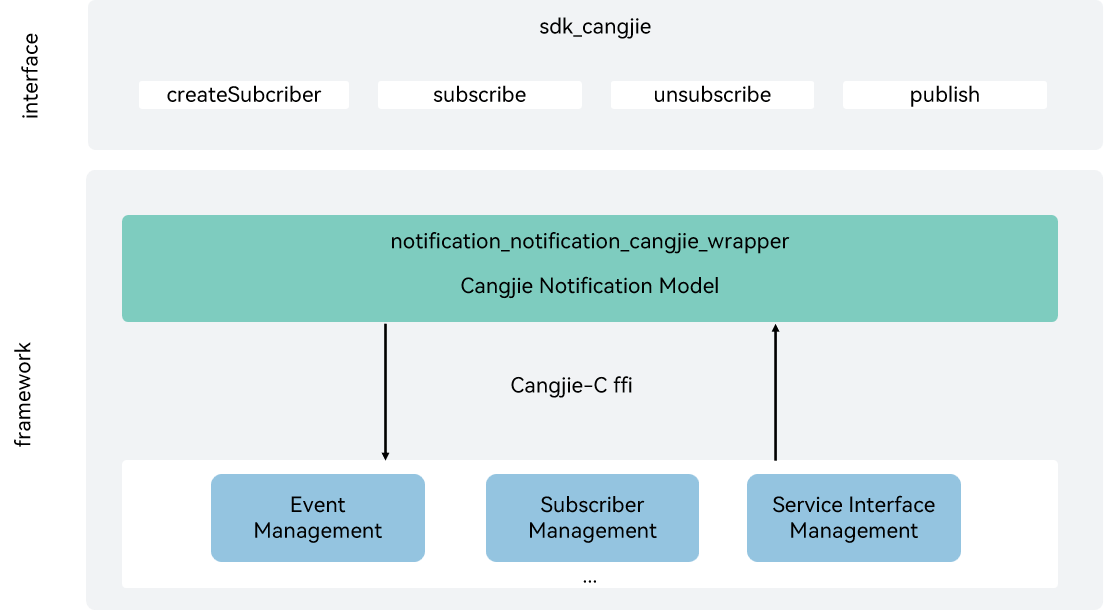
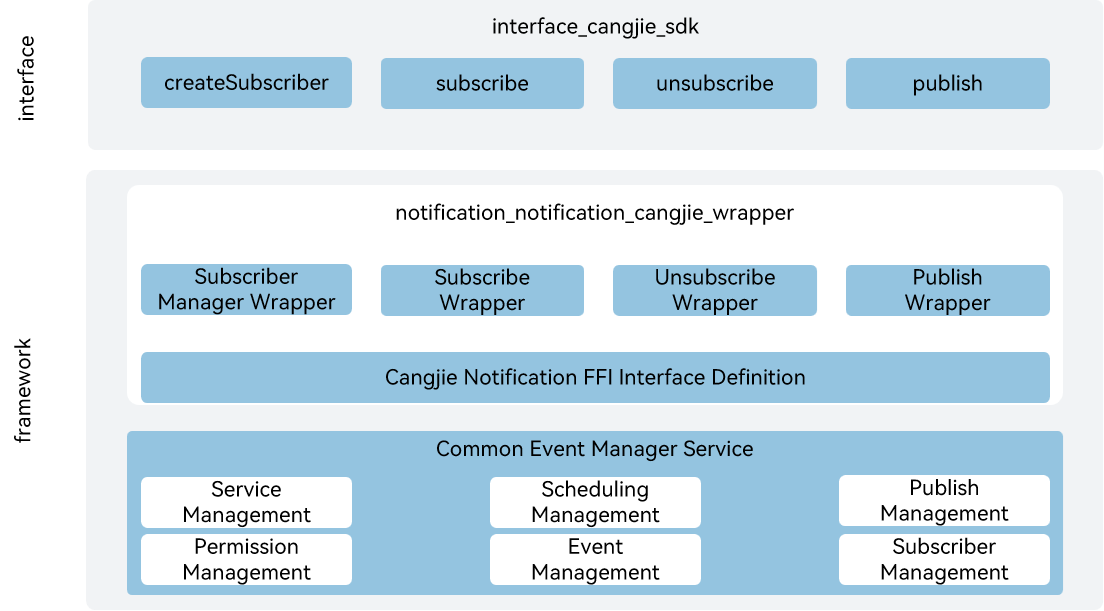
fix readme

diff --git a/README.md b/README.md
@@ -2,7 +2,7 @@
 
 ## Introduction
 
-The notification_notification_cangjie_wrapper is a Cangjie API encapsulated on OpenHarmony based on the capabilities of the Common Event Service (CES) Subsystem. OpenHarmony provides a CES for applications to subscribe to, publish, and unsubscribe from common events.
+The notification_notification_cangjie_wrapper is a Cangjie API encapsulated on OpenHarmony based on the capabilities of the Common Event Service (CES) Subsystem. OpenHarmony provides a CES for applications to subscribe to, publish, and unsubscribe from common events. The currently open CommonEvent apis only support standard devices.
 
 Common events in OpenHarmony are classified into system common events and custom common events.
 
@@ -12,31 +12,53 @@ Common events in OpenHarmony are classified into system common events and custom
 
 Each application can subscribe to common events as required. After your application subscribes to a common event, the system sends it to your application every time the event is published. Such an event may be published by the system, other applications, or your own application.
 
+## System Architecture
+
 **Figure 1** notification_cangjie_wrapper architecture
 
-![notification_cangjie_wrapper Architecture](figures/notification_cangjie_wrapper_architecture_en.png "notification_cangjie_wrapper Architecture")
+![notification_cangjie_wrapper Architecture](figures/notification_cangjie_wrapper_architecture_en.png)
+
+As shown in the architecture pictures, the notification_notification_cangjie_wrapper provides interfaces for publishing public events, creating subscribers, subscribing, unsubscribing, etc.
+
+- createSubscriber: use subscription information to create a public event subscriber, which can specify the public events the subscriber wants to subscribe to, the permissions required from the publisher, the subscriber's priority, etc.
+
+- subscribe: complete the subscription for the specified subscriber.
+
+- unsubscribe: cancel the subscription for the specified subscriber.
+
+- publish: publish a common event with the specified name and attributes.
+
+- Cangjie Notification FFI Interface Definition: Responsible for defining the C-interoperable Cangjie interface, which is used to realize Cangjie's notification capabilities.
+
+- Common Event Manager Service: Responsible for providing the basic common event fuctions, and encapsulating the C interface for interoperation with Cangjie.
 
 ## Directory Structure
 
-```cangjie
-base/notification/notification_cangjie_wrapper
-├── figures          # architecture pictures
-└── ohos             # Cangjie Common Event Manager code
 ```
-
-## Constraints
-
-The currently open CommonEvent apis only support standard devices.
+base/notification/notification_cangjie_wrapper
+├── figures         # architecture pictures
+└── ohos            # Cangjie CommonEvent code
+    ├── common_event_data
+    ├── common_event_manager
+    ├── common_event_publish_data
+    ├── common_event_subscribe_info
+    ├── common_event_subscriber
+    └── value_type
+```
 
 ## Usage
 
-The notification_notification_cangjie_wrapper provides interfaces for publishing public events, creating subscribers, subscribing, unsubscribing, etc.
+The following features are provided:
 
-A public event consists of two parts: an event of type string and options of type CommonEventPublishData. The event represents the name of the public event, and the options represent the attribute information of the public event.
+- create subscriber.
+- publish common evnet.
+- subscribe common event.
+- unsubscribe common event.
 
-The CommonEventSubscribeInfo type is for subscription information, used to create a public event subscriber, which can specify the public events the subscriber wants to subscribe to, the permissions required from the publisher, the subscriber's priority, and so on.
+Compare to the ArkTs, the following features are not provided:
 
-The CommonEventSubscriber is a public event subscriber used to obtain information about accepted public events and to set the processing information for public events.
+- send and process events between different threads within the same process or within the same thread.
+- distributed notification service.
 
 For relevant API of CommonEventManager, please refer to [ohos.common_event_manager](https://gitcode.com/openharmony-sig/arkcompiler_cangjie_ark_interop/blob/master/doc/API_Reference/source_en/apis/BasicServicesKit/cj-apis-common_event_manager.md); for relevant guidelines, please refer to [CommonEvent Development Guide](https://gitcode.com/openharmony-sig/arkcompiler_cangjie_ark_interop/tree/master/doc/Dev_Guide/source_en/basic-services/common-event).
 
@@ -47,3 +69,7 @@ Developers are welcome to contribute code, documentation, etc. For specific cont
 ## Repositories Involved
 
 [notification_common_event_service](https://gitee.com/openharmony/notification_common_event_service/blob/master)
+
+[hiviewdfx_hiviewdfx_cangjie_wrapper](https://gitcode.com/openharmony-sig/hiviewdfx_hiviewdfx_cangjie_wrapper)
+
+[arkcompiler_cangjie_ark_interop](https://gitcode.com/openharmony-sig/arkcompiler_cangjie_ark_interop)
